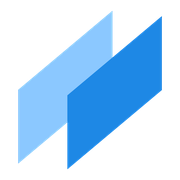
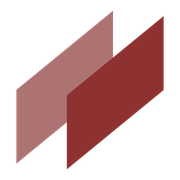
Match new stirling.com light navbar and red brand mark

diff --git a/site/assets/styles.css b/site/assets/styles.css
@@ -126,21 +126,24 @@ body {
   -moz-osx-font-smoothing: grayscale;
 }
 
-/* ── Navbar — matches the stirling.com site header (always dark) ─────────── */
+/* ── Navbar — mirrors the stirling.com site header (light, translucent) ──── */
 
 .navbar {
   position: sticky;
   top: 0;
   z-index: 50;
   height: var(--navbar-h);
-  /* The marketing site is rgba(0,0,0,0.8) over a black page; over our light
-     content the same alpha reads grey, so push it near-black + glass blur. */
-  background: rgba(0, 0, 0, 0.92);
-  backdrop-filter: blur(12px);
-  -webkit-backdrop-filter: blur(12px);
-  font-family: "Geist", var(--font-sans);
+  background: rgba(255, 255, 255, 0.95);
+  backdrop-filter: blur(6px);
+  -webkit-backdrop-filter: blur(6px);
+  box-shadow: rgba(0, 0, 0, 0.06) 0 1px 0 0;
+  font-family: "Inter", var(--font-sans);
 }
-[data-theme="dark"] .navbar { background: rgba(0, 0, 0, 0.8); }
+/* Dark theme keeps the same shape, inverted. */
+[data-theme="dark"] .navbar {
+  background: rgba(20, 20, 22, 0.95);
+  box-shadow: rgba(255, 255, 255, 0.08) 0 1px 0 0;
+}
 
 .navbar-inner {
   position: relative;
@@ -148,12 +151,9 @@ body {
   align-items: center;
   gap: 1rem;
   height: 100%;
-  max-width: 100rem;
+  max-width: 78.5rem;
   margin: 0 auto;
   padding: 0 20px;
-}
-@media (min-width: 90rem) {
-  .navbar-inner { padding: 0 60px; }
 }
 
 .menu-toggle {
@@ -164,53 +164,50 @@ body {
   height: 2.25rem;
   border: none;
   background: none;
-  color: #fafafa;
+  color: var(--c-text);
   cursor: pointer;
   border-radius: var(--radius-md);
 }
-.menu-toggle:hover { background: rgba(255, 255, 255, 0.1); }
+.menu-toggle:hover { background: var(--c-hover); }
 
 .brand {
   display: flex;
   align-items: center;
   gap: 6px;
   text-decoration: none;
-  color: #fff;
+  color: #121212;
   white-space: nowrap;
 }
-.brand img { display: block; }
+[data-theme="dark"] .brand { color: #fafafa; }
+.brand img { display: block; height: 29px; width: auto; }
 .brand-name {
-  font-family: "Alumni Sans", "Geist", var(--font-sans);
-  font-size: 1.625rem;
+  font-family: "Alumni Sans", var(--font-sans);
+  font-size: 1.875rem;
   font-weight: 700;
   line-height: 1;
 }
 
-/* True viewport-centred like the marketing site, independent of how wide
-   the brand or right-hand cluster are. */
 .navbar-center {
-  position: absolute;
-  left: 50%;
-  top: 50%;
-  transform: translate(-50%, -50%);
   display: flex;
   align-items: center;
-  gap: 2rem;
+  gap: 1.5rem;
+  margin-left: 2rem;
 }
 .navbar-center a {
   font-size: 0.9375rem;
-  font-weight: 500;
-  color: rgba(255, 255, 255, 0.8);
+  font-weight: 600;
+  color: #121212;
   text-decoration: none;
-  transition: color var(--motion-fast);
+  transition: opacity var(--motion-fast);
 }
-.navbar-center a:hover,
-.navbar-center a.active { color: #fff; }
+[data-theme="dark"] .navbar-center a { color: #fafafa; }
+.navbar-center a:hover { opacity: 0.65; }
+.navbar-center a.active { opacity: 0.55; }
 
 .navbar-links {
   display: flex;
   align-items: center;
-  gap: 1rem;
+  gap: 0.75rem;
   margin-left: auto;
 }
 
@@ -221,14 +218,15 @@ body {
   padding: 0;
   font-family: inherit;
   font-size: 0.9375rem;
-  font-weight: 500;
-  color: rgba(255, 255, 255, 0.8);
+  font-weight: 600;
+  color: #121212;
   background: none;
   border: none;
   cursor: pointer;
-  transition: color var(--motion-fast);
+  transition: opacity var(--motion-fast);
 }
-.ask-ai:hover { color: #fff; }
+[data-theme="dark"] .ask-ai { color: #fafafa; }
+.ask-ai:hover { opacity: 0.65; }
 
 .theme-toggle {
   display: inline-flex;
@@ -236,14 +234,16 @@ body {
   justify-content: center;
   width: 2.25rem;
   height: 2.25rem;
-  color: rgba(255, 255, 255, 0.7);
+  color: #525252;
   background: none;
   border: none;
   border-radius: var(--radius-pill);
   cursor: pointer;
   transition: color var(--motion-fast), background var(--motion-fast);
 }
-.theme-toggle:hover { color: #fff; background: rgba(255, 255, 255, 0.12); }
+.theme-toggle:hover { color: #121212; background: rgba(0, 0, 0, 0.05); }
+[data-theme="dark"] .theme-toggle { color: #a1a1aa; }
+[data-theme="dark"] .theme-toggle:hover { color: #fff; background: rgba(255, 255, 255, 0.1); }
 
 .icon-moon { display: none; }
 [data-theme="dark"] .icon-moon { display: block; }
@@ -252,43 +252,56 @@ body {
 .gh-star {
   display: inline-flex;
   align-items: center;
-  gap: 14px;
-  color: #fff;
+  gap: 6px;
+  color: #121212;
   text-decoration: none;
 }
+[data-theme="dark"] .gh-star { color: #fafafa; }
 .gh-star-count {
+  font-family: "Geist", var(--font-sans);
   font-size: 0.9375rem;
-  font-weight: 400;
-  color: #a6a6a6;
+  font-weight: 500;
+  color: #525252;
   transition: color var(--motion-fast);
 }
-.gh-star:hover .gh-star-count { color: #fff; }
+[data-theme="dark"] .gh-star-count { color: #a1a1aa; }
+.gh-star:hover .gh-star-count { color: #121212; }
+[data-theme="dark"] .gh-star:hover .gh-star-count { color: #fff; }
 
+/* Log in: ghost pill. Sign up: solid dark pill. */
+.navbar-login,
 .navbar-cta {
-  position: relative;
   display: inline-flex;
   align-items: center;
-  height: 2.5rem;
-  padding: 0 1rem;
-  font-size: 1rem;
-  font-weight: 600;
-  color: #fafafa;
-  text-decoration: none;
-  background: rgba(255, 255, 255, 0.15);
+  height: 44px;
+  padding: 0 20px;
   border-radius: 64px;
-  transition: background var(--motion-fast);
+  font-size: 0.9375rem;
+  font-weight: 600;
+  text-decoration: none;
   white-space: nowrap;
+  transition: background var(--motion-fast), opacity var(--motion-fast);
 }
-/* Same subtle ring the marketing site draws via an ::after overlay. */
-.navbar-cta::after {
-  content: "";
-  position: absolute;
-  inset: 0;
-  border: 1px solid rgba(255, 255, 255, 0.15);
-  border-radius: inherit;
-  pointer-events: none;
+
+.navbar-login {
+  color: #262626;
+  background: #fff;
+  border: 1px solid rgba(0, 0, 0, 0.1);
 }
-.navbar-cta:hover { background: rgba(255, 255, 255, 0.25); }
+.navbar-login:hover { background: #f5f5f5; }
+[data-theme="dark"] .navbar-login {
+  color: #e5e5e5;
+  background: transparent;
+  border-color: rgba(255, 255, 255, 0.18);
+}
+[data-theme="dark"] .navbar-login:hover { background: rgba(255, 255, 255, 0.08); }
+
+.navbar-cta {
+  color: #fff;
+  background: #121212;
+}
+.navbar-cta:hover { opacity: 0.85; }
+[data-theme="dark"] .navbar-cta { color: #121212; background: #fafafa; }
 
 /* ── Layout: sidebar / content / toc ─────────────────────────────────────── */
 
@@ -969,8 +982,12 @@ body { display: flex; flex-direction: column; min-height: 100vh; }
   .navbar-links { margin-left: auto; }
 }
 
+@media (max-width: 62rem) {
+  .gh-star, .navbar-login { display: none; }
+}
+
 @media (max-width: 48rem) {
-  .gh-star, .navbar-cta { display: none; }
+  .navbar-cta { display: none; }
 }
 
 @media (max-width: 40rem) {
